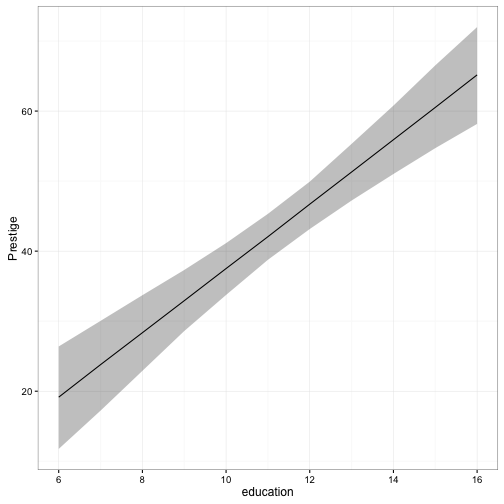
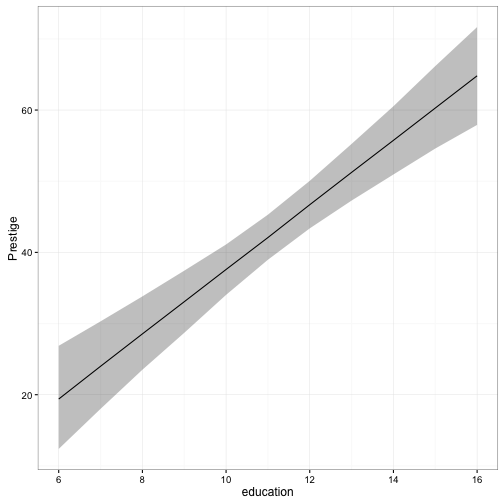
update readme

diff --git a/README.md b/README.md
@@ -1,6 +1,6 @@
 ![coreSim logo](img/coreSim_logo.png)
 
-Version: 0.1.0 [![Build Status](https://travis-ci.org/christophergandrud/coreSim.svg?branch=master)](https://travis-ci.org/christophergandrud/coreSim)
+Version: 0.2 [![Build Status](https://travis-ci.org/christophergandrud/coreSim.svg?branch=master)](https://travis-ci.org/christophergandrud/coreSim)
 [![codecov.io](https://codecov.io/github/christophergandrud/coreSim/coverage.svg?branch=master)](https://codecov.io/github/christophergandrud/coreSim?branch=master)
 
 > Core functionality for simulating quantities of interest from generalised 
@@ -39,11 +39,9 @@ These characteristics allow **coreSim** to form the backbone of many specific an
 1. Estimate your model using whatever GLM model fitting function you like 
 (note: I've only tested `lm`, `glm`, and `survival`).
 
-2. Simulate coefficients with `b_sim`.
+2. Find your quantities of interest with `qi_builder`.
 
-3. Find your quantities of interest with `qi_builder`.
-
-4. Present your results, e.g. by plotting the simulated quantities of 
+3. Present your results, e.g. by plotting the simulated quantities of 
 interest.
 
 # Examples
@@ -59,14 +57,12 @@ library(car)
 
 # Normal linear model
 m1 <- lm(prestige ~ education + type, data = Prestige)
-# Simulate coefficients
-m1_sims <- b_sim(m1)
 
 # Create fitted values
-fitted_df_1 <- expand.grid(education = 6:16, typewc = 1)
+fitted_df_1 <- expand.grid(education = 6:16, type = 'wc')
 
 # Find predicted outcomes (95% central interval, by default)
-linear_qi <- qi_builder(b_sims = m1_sims, newdata = fitted_df_1)
+linear_qi <- qi_builder(obj = m1, newdata = fitted_df_1)
 ```
 
 ```
@@ -79,12 +75,12 @@ head(linear_qi)
 
 ```
 ##   education typewc      qi_
-## 1         6      1 15.56093
-## 2         6      1 24.59888
-## 3         6      1 14.62604
-## 4         6      1 25.05122
-## 5         6      1 20.38014
-## 6         6      1 21.54174
+## 1         6      1 19.24032
+## 2         6      1 22.04271
+## 3         6      1 19.31616
+## 4         6      1 16.21239
+## 5         6      1 18.43405
+## 6         6      1 15.58543
 ```
 
 ### Slimmed simulation data
@@ -99,20 +95,19 @@ minimum, median, and maximum values of the central interval for each scenario:
 
 
 ```r
-linear_qi_slim <- qi_builder(b_sims = m1_sims, newdata = fitted_df_1, 
-                             slim = TRUE)
+linear_qi_slim <- qi_builder(m1, newdata = fitted_df_1, slim = TRUE)
 
 head(linear_qi_slim)
 ```
 
 ```
 ##   education typewc   qi_min qi_median   qi_max
-## 1         6      1 11.75934  19.14915 26.38990
-## 2         7      1 17.22595  23.79351 30.04276
-## 3         8      1 22.90708  28.35126 33.70815
-## 4         9      1 28.58959  32.92120 37.31051
-## 5        10      1 33.74395  37.51279 41.14294
-## 6        11      1 38.76235  42.06075 45.32449
+## 1         6      1 12.38370  19.39109 26.87312
+## 2         7      1 18.01531  23.99597 30.30749
+## 3         8      1 23.51079  28.54604 33.81511
+## 4         9      1 28.69419  33.06522 37.42744
+## 5        10      1 34.02997  37.59776 41.11163
+## 6        11      1 38.96397  42.08208 45.29848
 ```
 
 The slimmed simulation data set can be efficiently plotted, for example using
@@ -161,27 +156,23 @@ Admission$rank <- as.factor(Admission$rank)
 # Estimate model
 m2 <- glm(admit ~ gre + gpa + rank, data = Admission, family = 'binomial')
 
-# Simulate coefficients
-m2_sims <- b_sim(m2)
-
 # Create fitted values
-m2_fitted <- expand.grid(gre = seq(220, 800, by = 10), gpa = c(1, 4),
-                         rank4 = 1)
+m2_fitted <- expand.grid(gre = seq(220, 800, by = 10), gpa = c(1, 4), rank = '4')
 
 # Find quantity of interest
-logistic_qi <- qi_builder(m2_sims, m2_fitted, FUN = pr_fun, slim = TRUE)
+logistic_qi <- qi_builder(m2, m2_fitted, FUN = pr_fun, slim = TRUE)
 
 head(logistic_qi)
 ```
 
 ```
 ##   gre gpa rank4      qi_min  qi_median     qi_max
-## 1 220   1     1 0.002870557 0.01438024 0.06935748
-## 2 230   1     1 0.002936545 0.01478719 0.07023445
-## 3 240   1     1 0.003006423 0.01508441 0.07101807
-## 4 250   1     1 0.003096031 0.01539632 0.07180976
-## 5 260   1     1 0.003188301 0.01577398 0.07260958
-## 6 270   1     1 0.003299854 0.01610704 0.07341760
+## 1 220   1     1 0.002616115 0.01384145 0.06389668
+## 2 230   1     1 0.002653480 0.01418987 0.06495385
+## 3 240   1     1 0.002691377 0.01453666 0.06602728
+## 4 250   1     1 0.002753199 0.01489537 0.06711718
+## 5 260   1     1 0.002825886 0.01522181 0.06822375
+## 6 270   1     1 0.002900487 0.01552276 0.06934721
 ```
 
 
